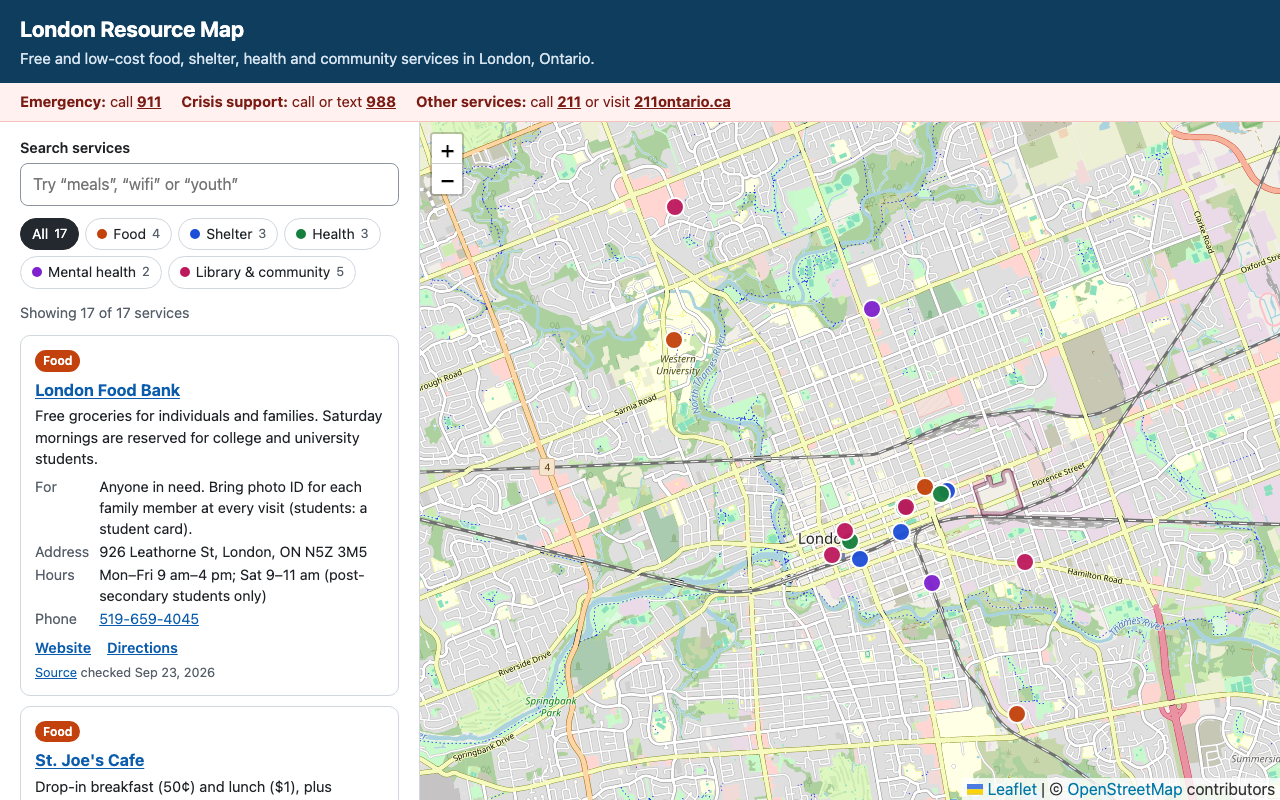
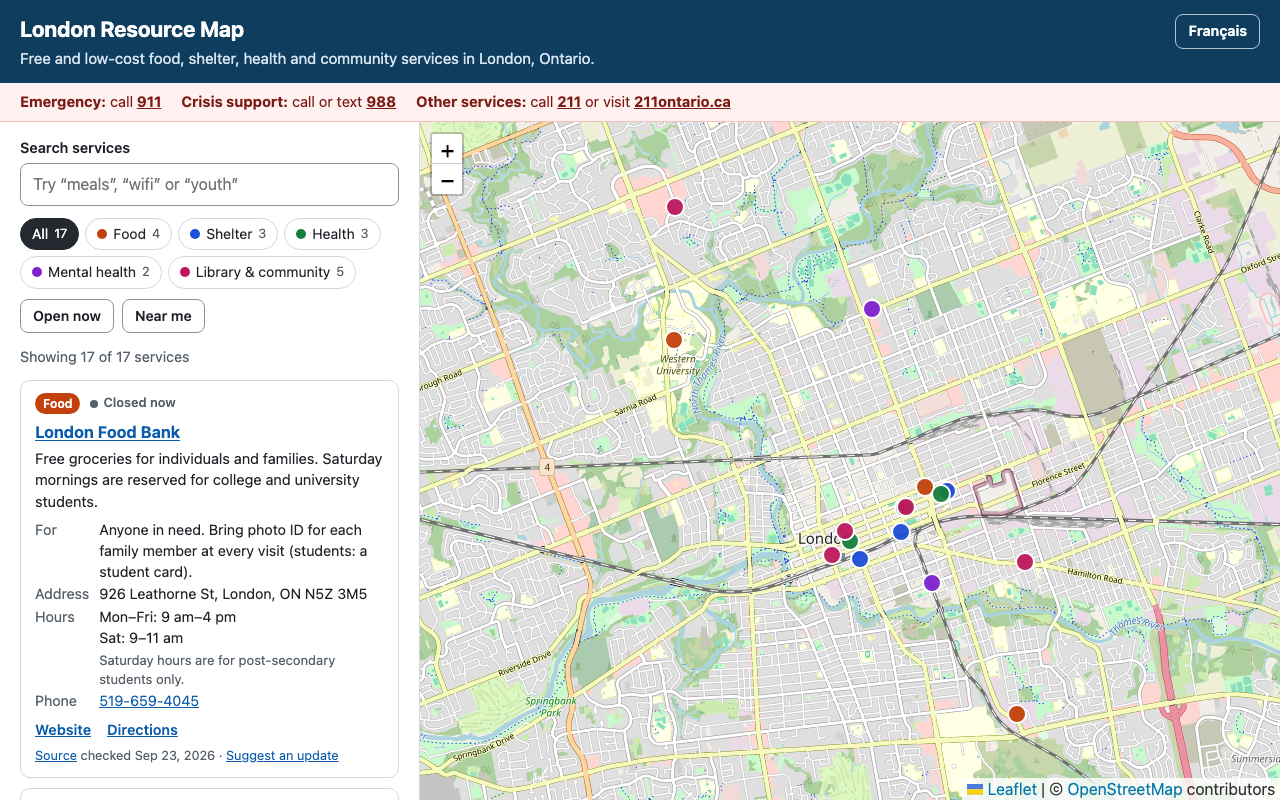
Update README and screenshot for the new features

Changed region(s): [[0.0, 0.4375, 0.3125, 1.0], [0.0, 0.375, 0.1562, 0.4062], [0.9062, 0.0312, 0.9688, 0.0625]]

diff --git a/README.md b/README.md
@@ -1,23 +1,26 @@
 # London Resource Map
 
-An interactive map of free and low-cost food, shelter, health, mental health and community services in London, Ontario.
+An interactive map of free and low-cost food, shelter, health, mental health and community services in London, Ontario, in English and French.
 
-**Live site:** https://hariraamthiru.github.io/london-resource-map/
+**Live site:** https://hariraamthiru.github.io/london-resource-map/ ([en français](https://hariraamthiru.github.io/london-resource-map/?lang=fr))
 
 ![The service list beside a map of London, Ontario with color-coded markers for each category](docs/screenshot.png)
 
 ## Why this exists
 
-People looking for help usually have to piece together information from many websites and PDFs, often on a phone and in a hurry. This app puts the essentials in one place: what a service offers, who it's for, when it's open, and how to get there.
+People looking for help usually have to piece together information from many websites and PDFs, often on a phone and in a hurry. This app puts the essentials in one place: what a service offers, who it's for, whether it's open right now, and how to get there.
 
 ## Features
 
 - **17 real services in 5 categories:** food, shelter, health, mental health, and library & community. Each one has its hours, phone number, who it's for, and a link to where the information came from.
-- **Search and filters:** search by keyword (try "meals", "wifi" or "youth") and filter by category. Counts update as you type.
-- **List and map stay in sync:** click a service in the list to fly to it on the map, or click a marker to jump to its card in the list.
+- **Open now:** shows which services are open, using London time even if you're viewing from another time zone.
+- **Near me:** sorts the list by distance from you and zooms the map to the closest services. Your location stays in your browser and is never sent anywhere.
+- **English and French:** the interface and every listing are translated. Search works in both languages, with or without accents.
+- **Search and filters:** search by keyword (try "meals", "repas" or "youth") and filter by category. Counts update as you go.
+- **List and map stay in sync:** click a service in the list to fly to it on the map, or click a marker to jump to its card.
+- **Suggest an update:** each listing links to a short GitHub form for reporting changes or suggesting new services.
 - **Urgent help on every screen:** 911 for emergencies, 988 for crisis support, and 211 for everything else.
-- **Works on phones:** the layout stacks and the map stays easy to use.
-- **Accessible:** it works with a keyboard and a screen reader, and the list shows everything the map does. See [Accessibility](#accessibility).
+- **Works on phones and with assistive technology.** See [Accessibility](#accessibility).
 
 ## Built with
 
@@ -28,10 +31,13 @@ People looking for help usually have to piece together information from many web
 
 ## How it works
 
-- **`src/data/resources.json`** holds the services. Each entry includes its source and the date it was checked.
+- **`src/data/resources.json`** holds the services, with a source and a "last checked" date for each one.
+- **`src/lib/hours.js`** stores opening hours as data, like `{ "mon": ["09:00-16:00"] }`. From that it works out whether a service is open, using London's time zone, and writes the hours out in each language ("Mon–Fri: 9 am–4 pm", "lun.–ven. : 9 h à 16 h").
+- **`src/lib/filterResources.js`** handles search, category and "Open now" filtering. It's a pure function, so it's easy to test.
+- **`src/lib/distance.js`** measures straight-line distance with the haversine formula, and **`src/lib/useUserLocation.js`** asks for the visitor's location only when they click "Near me".
+- **`src/i18n/strings.js`** has all the interface text in both languages. A test checks that both languages have the same set of text keys, so nothing goes untranslated. The language can be set with a link (`?lang=fr`), and the app remembers the visitor's choice.
 - **`scripts/geocode.mjs`** turns street addresses into map coordinates using OpenStreetMap's free Nominatim geocoder, sending at most one request per second as its usage policy asks.
-- **`src/lib/filterResources.js`** handles search and filtering. It's a pure function, so it's easy to test.
-- **`src/data/resources.test.js`** checks every entry: required fields, a valid category, `https` links, and coordinates inside London. A bad data edit fails the build before it reaches the live site.
+- **`src/data/resources.test.js`** checks every entry: required fields, translations, valid hours, `https` links, and coordinates inside London. A bad data edit fails the build before it reaches the live site.
 
 ## Data
 
@@ -39,14 +45,17 @@ The details come from [Information London](https://www.informationlondon.ca), a 
 
 Shelters that keep their locations private for safety are left off the map on purpose. The app directs people to 211 instead.
 
+Anyone can [suggest an update](https://github.com/HariraamThiru/london-resource-map/issues/new?template=suggest-update.yml) through a GitHub issue form. It needs a free GitHub account.
+
 This is a student project and isn't affiliated with any of the organizations listed.
 
 ## Accessibility
 
-- An [axe-core](https://github.com/dequelabs/axe-core) scan (WCAG 2.1 AA plus best practices) reports no violations.
-- Filter buttons tell screen readers whether they're on or off, and the results count is announced when it changes.
+- An [axe-core](https://github.com/dequelabs/axe-core) scan (WCAG 2.1 AA plus best practices) reports no violations, in both English and French.
+- The page's language attribute switches with the language, so screen readers use the right pronunciation.
+- Toggle buttons tell screen readers whether they're on or off. The results count and location messages are announced when they change.
 - Category colors meet WCAG AA contrast with white text. Every category is also named in text, so color is never the only clue.
-- Links that open a new tab say so to screen reader users.
+- Links that open a new tab say so, and say which service they're for.
 
 ## Run it locally
 
@@ -63,14 +72,18 @@ Then open http://localhost:5173/london-resource-map/.
 npm test
 ```
 
-To add a service, add an entry to `src/data/resources.json` with `"lat": null` and `"lng": null`, then run `npm run geocode` to fill in its coordinates.
+To add a service:
+1. Copy an existing entry in `src/data/resources.json` and fill in both the `en` and `fr` text.
+2. Write its hours as `"always"`, as `null` if they aren't published, or day by day, like `{ "mon": ["09:00-16:00"] }`.
+3. Set `"lat": null` and `"lng": null`, then run `npm run geocode` to fill in its coordinates.
 
 ## What's next
 
-- An **"Open now"** filter. This needs hours stored as structured data instead of text.
-- **"Near me"** sorting using the browser's location
-- **French** and other languages
-- A way for organizations to **suggest updates** to their listing
+- **More languages**, such as Arabic, which also needs a right-to-left layout
+- **Holiday hours** and temporary closures
+- **Offline use**, by saving the list to the phone as an installable web app
+- A **review page**, so suggested updates can be approved without editing JSON by hand
+- **Walking and transit times** instead of straight-line distance
 
 ## Credits
 
